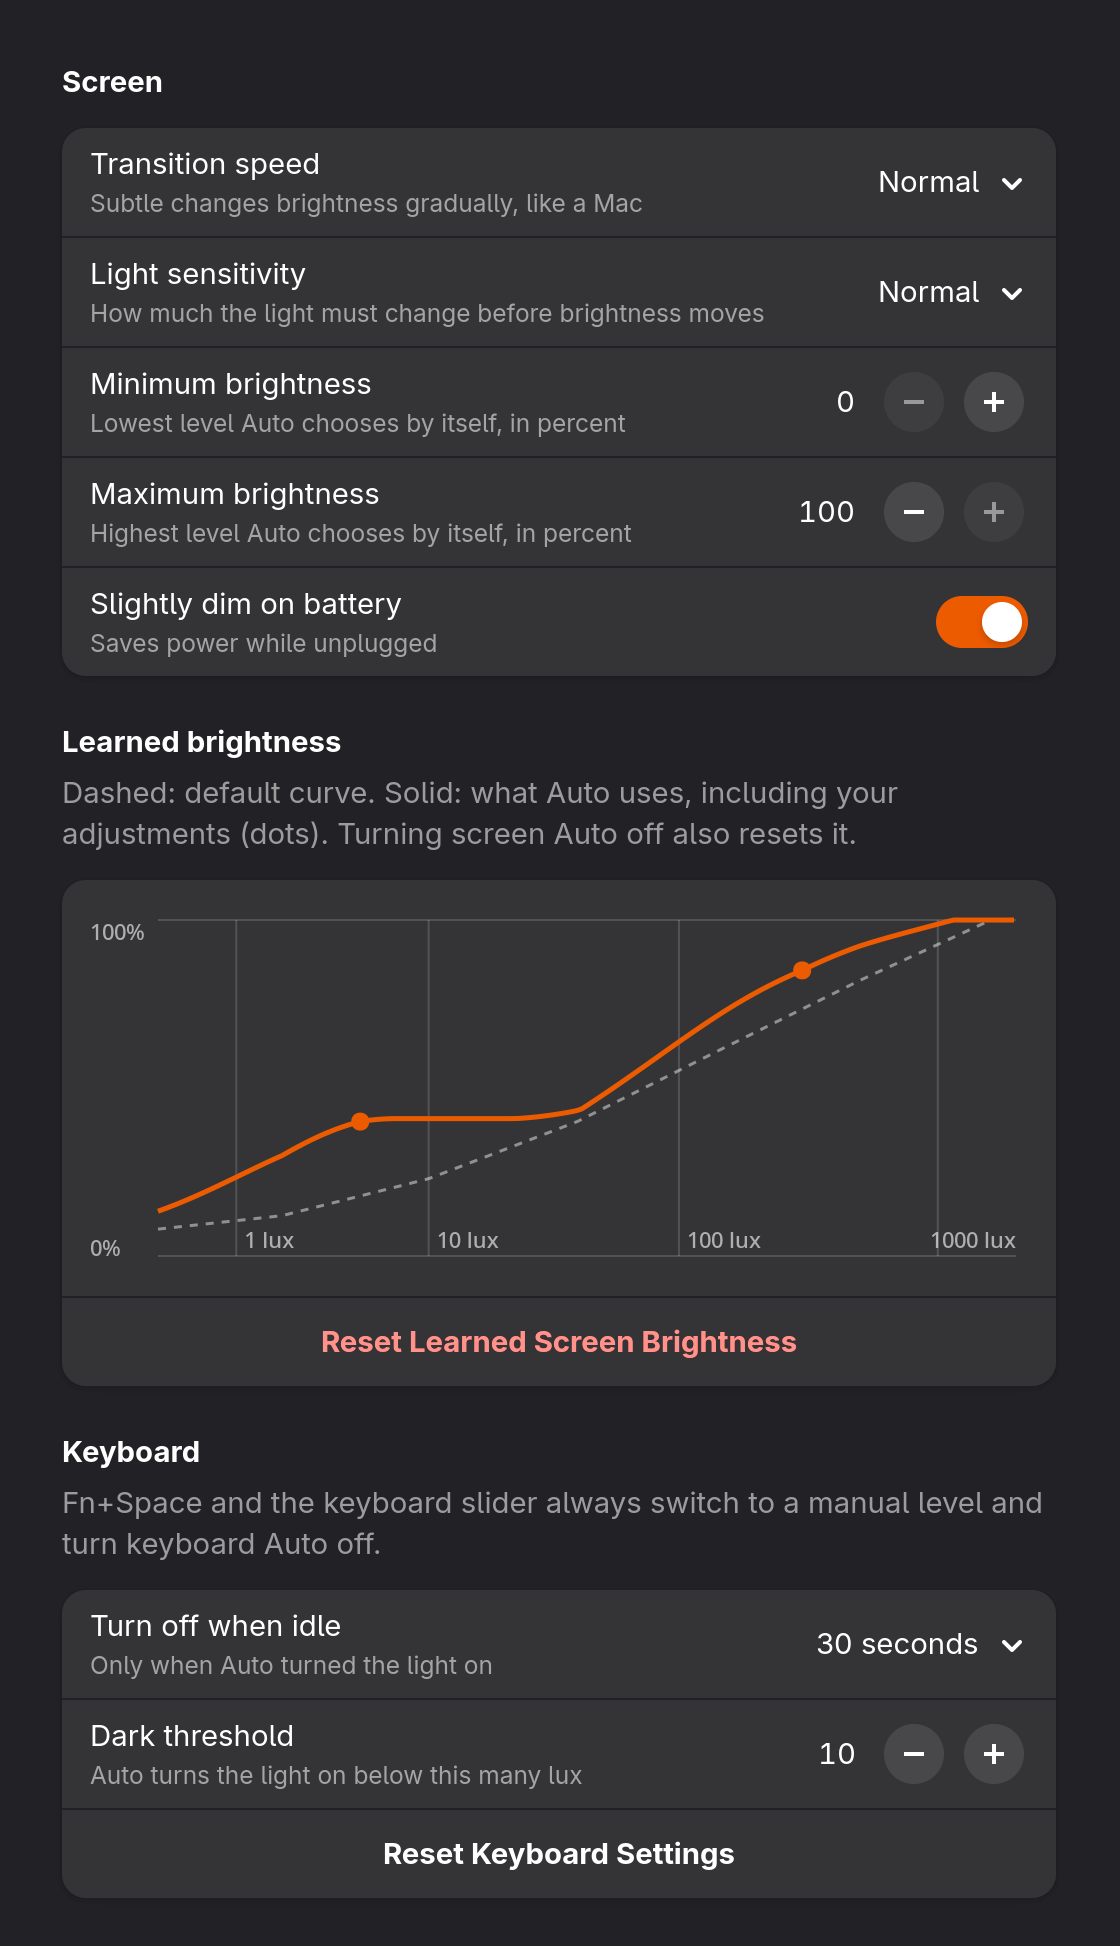
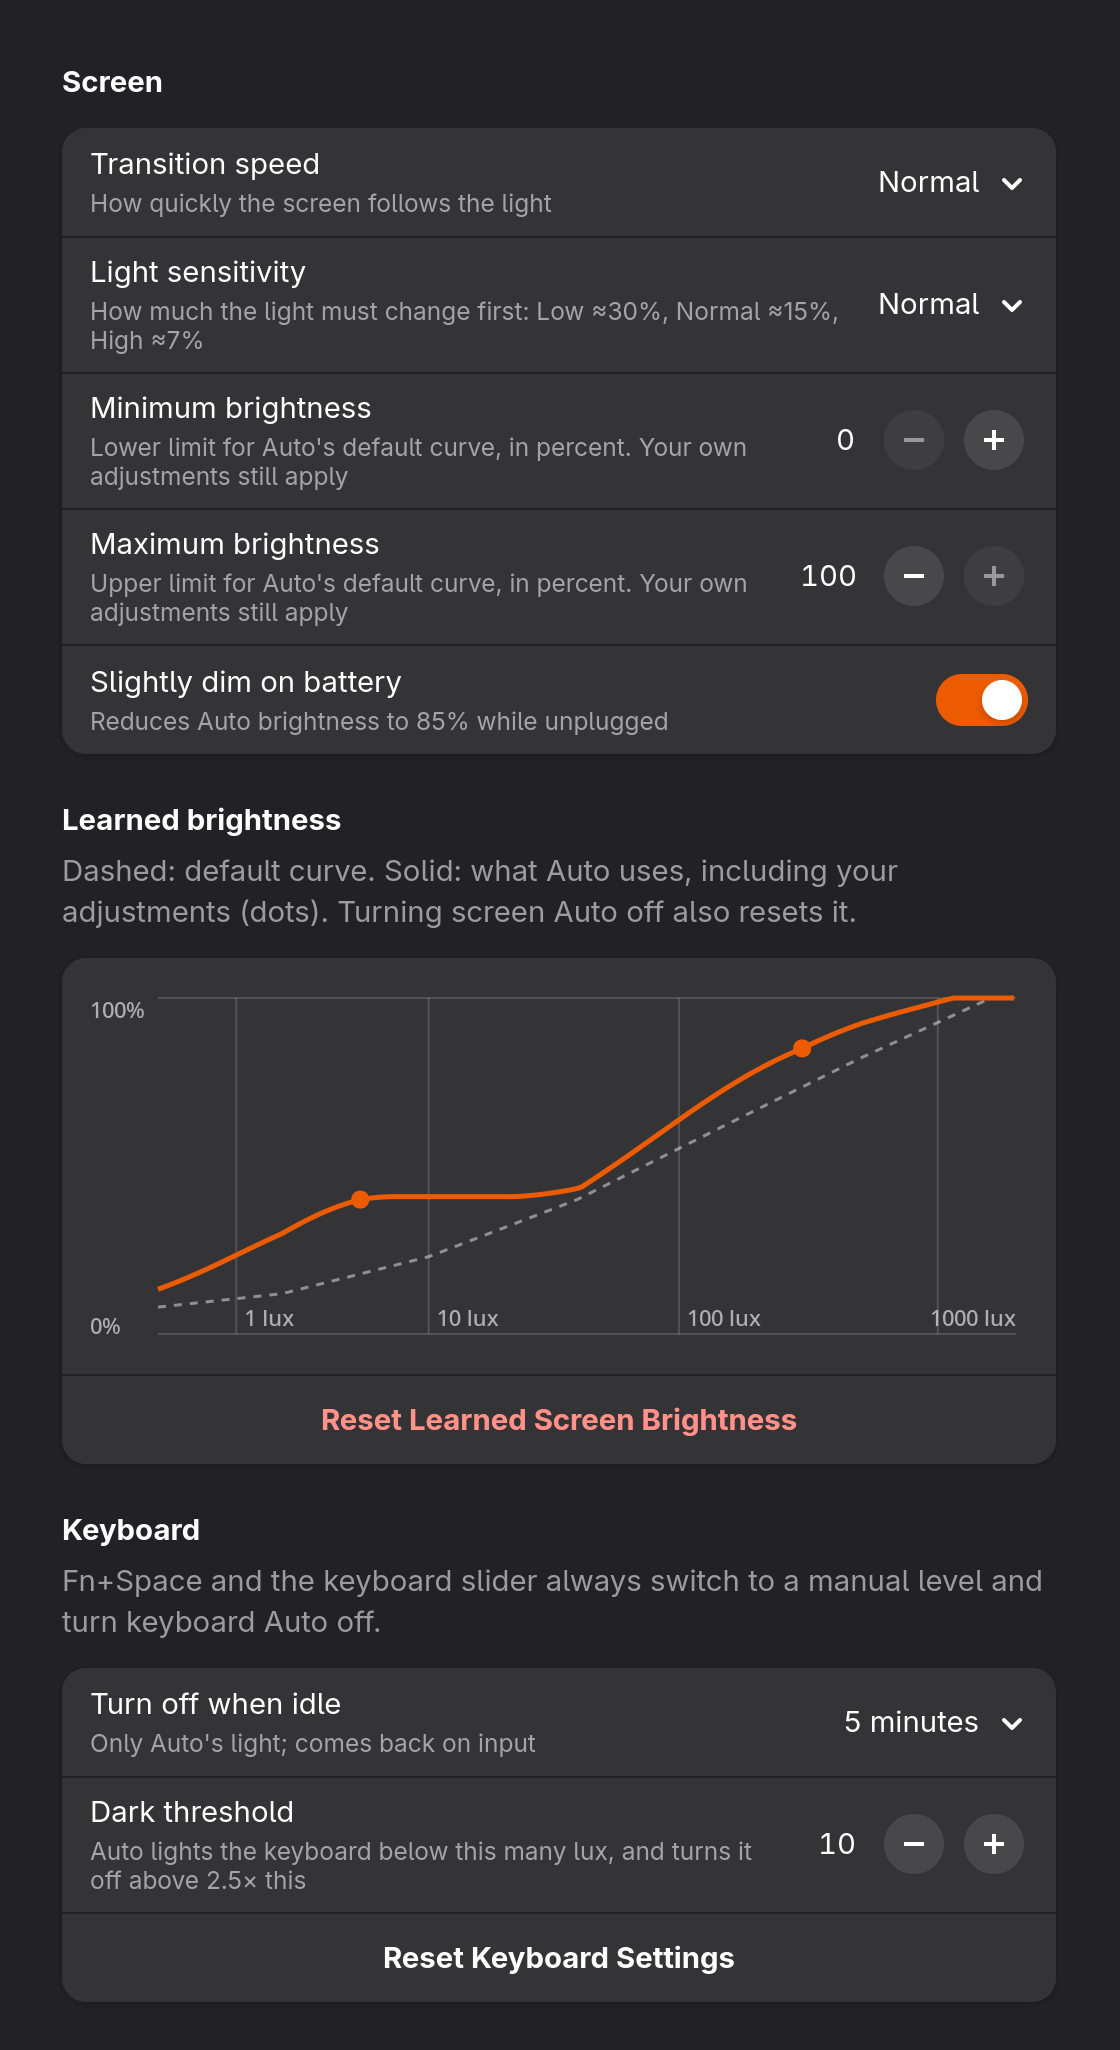
Explain every setting in the README and the settings window
The README gets a table for the screen and keyboard settings with what
each one does, its real values (transition times, sensitivity
thresholds, the 85% battery level, the 2.5x keyboard off threshold),
and its default, plus how screen Auto learns and how Fn+Space and the
Auto switches interact. Subtitles in the settings window now state the
actual behavior, kept short enough that dropdown values are not cut off.

diff --git a/lux-capacitor@ierick17.github.io/prefs.js b/lux-capacitor@ierick17.github.io/prefs.js
@@ -164,22 +164,24 @@ export default class LuxCapacitorPreferences extends ExtensionPreferences {
 
         const screen = new Adw.PreferencesGroup({title: 'Screen'});
         screen.add(comboRow(settings, 'transition-speed', 'Transition speed',
-            'Subtle changes brightness gradually, like a Mac', SPEEDS, getString, setString));
+            'How quickly the screen follows the light', SPEEDS, getString, setString));
         screen.add(comboRow(settings, 'light-sensitivity', 'Light sensitivity',
-            'How much the light must change before brightness moves',
+            'How much the light must change first: Low ≈30%, Normal ≈15%, High ≈7%',
             SENSITIVITIES, getString, setString));
         screen.add(percentRow(settings, 'screen-min-brightness', 'Minimum brightness',
-            'Lowest level Auto chooses by itself, in percent', value => {
+            'Lower limit for Auto\'s default curve, in percent. Your own adjustments still apply',
+            value => {
                 if (value > settings.get_int('screen-max-brightness'))
                     settings.set_int('screen-max-brightness', value);
             }));
         screen.add(percentRow(settings, 'screen-max-brightness', 'Maximum brightness',
-            'Highest level Auto chooses by itself, in percent', value => {
+            'Upper limit for Auto\'s default curve, in percent. Your own adjustments still apply',
+            value => {
                 if (value < settings.get_int('screen-min-brightness'))
                     settings.set_int('screen-min-brightness', value);
             }));
         const battery = new Adw.SwitchRow({title: 'Slightly dim on battery',
-            subtitle: 'Saves power while unplugged'});
+            subtitle: 'Reduces Auto brightness to 85% while unplugged'});
         settings.bind('dim-on-battery', battery, 'active', Gio.SettingsBindFlags.DEFAULT);
         screen.add(battery);
         page.add(screen);
@@ -202,10 +204,11 @@ export default class LuxCapacitorPreferences extends ExtensionPreferences {
             description: 'Fn+Space and the keyboard slider always switch to a manual level ' +
                 'and turn keyboard Auto off.'});
         keyboard.add(comboRow(settings, 'keyboard-idle-timeout', 'Turn off when idle',
-            'Only when Auto turned the light on', IDLE_TIMEOUTS, getInt, setInt));
+            'Only Auto\'s light; comes back on input',
+            IDLE_TIMEOUTS, getInt, setInt));
         const dark = Adw.SpinRow.new_with_range(1, 200, 1);
         Object.assign(dark, {title: 'Dark threshold',
-            subtitle: 'Auto turns the light on below this many lux'});
+            subtitle: 'Auto lights the keyboard below this many lux, and turns it off above 2.5× this'});
         dark.value = settings.get_int('keyboard-dark-lux');
         dark.connect('notify::value', () => {
             const value = Math.round(dark.value);

diff --git a/README.md b/README.md
@@ -46,11 +46,35 @@ Keyboard Auto can leave the backlight at 0% when the room is bright enough. The 
 
 ## Settings
 
-Open Extensions, then Lux Capacitor → Settings, or run `gnome-extensions prefs lux-capacitor@ierick17.github.io`. The graph shows the default curve (dashed) and the curve Auto uses after your adjustments (solid, with each adjustment as a dot); this screenshot uses two example adjustments.
+Open Extensions, then Lux Capacitor → Settings, or run `gnome-extensions prefs lux-capacitor@ierick17.github.io`. This screenshot uses two example adjustments in the graph.
 
 <p>
   <img src="screenshots/settings-window.png" alt="Lux Capacitor settings window with screen options, a learned brightness graph, and keyboard options" width="420">
 </p>
+
+### Screen
+
+| Setting | What it does | Default |
+| --- | --- | --- |
+| Transition speed | How quickly the screen follows a change in light. Brightening is always quicker than dimming. **Normal** settles in about 2 s when brightening and about 7 s when dimming; **Subtle** takes twice as long (about 4 s and 15 s), the closest to a Mac; **Fast** takes half as long (about 1 s and 4 s). Affects the screen only. | Normal |
+| Light sensitivity | How much the light must change before the screen moves, so small sensor fluctuations are ignored: about 30% (**Low**), 15% (**Normal**), or 7% (**High**). Larger changes always react right away. | Normal |
+| Minimum brightness | Lower limit for Auto's default curve, in percent. Brightness you set yourself is still used exactly, even below it. Raising it above the maximum moves the maximum up too. | 0% |
+| Maximum brightness | Upper limit for Auto's default curve, in percent. Brightness you set yourself is still used exactly, even above it. Lowering it below the minimum moves the minimum down too. | 100% |
+| Slightly dim on battery | While unplugged, Auto brightness is reduced to 85%. Brightness you set on battery is learned without that reduction, so plugging in brings back your full level. | Off |
+| Learned brightness graph | Light level in lux across (log scale, 1 to 1000+), brightness up. The dashed line is the default curve within your limits, the solid line is what Auto actually uses, and each dot is one of your adjustments. | — |
+| Reset Learned Screen Brightness | Forgets all your adjustments and returns to the default curve. Turning screen Auto off in Quick Settings does the same. | — |
+
+To teach screen Auto, keep it on and move the brightness slider or press the brightness keys. Auto remembers that level for the current light, keeps following the light, and never makes the screen dimmer as the room gets brighter.
+
+### Keyboard
+
+| Setting | What it does | Default |
+| --- | --- | --- |
+| Turn off when idle | When keyboard Auto has the light on and you stop typing and using the mouse for this long (5 s, 10 s, 30 s, 1 min, or 5 min), the light fades out, and it comes back on your next input. It needs keyboard Auto on and never changes a level you set yourself. | Off |
+| Dark threshold | Keyboard Auto turns the light on when the room is darker than this many lux, and off again once it is 2.5 times brighter (25 lux by default); the gap prevents flickering. The keyboard brightness curve scales with it. | 10 lux |
+| Reset Keyboard Settings | Sets the idle timeout back to Off and the dark threshold back to 10 lux. | — |
+
+Fn+Space steps through 0%, 20%, 50%, 75%, and 100%. Fn+Space and the Quick Settings keyboard slider both set a manual level and turn keyboard Auto off; turn it back on with the Auto switch in Quick Settings. The screen and keyboard Auto switches are independent.
 
 ## Install
 
